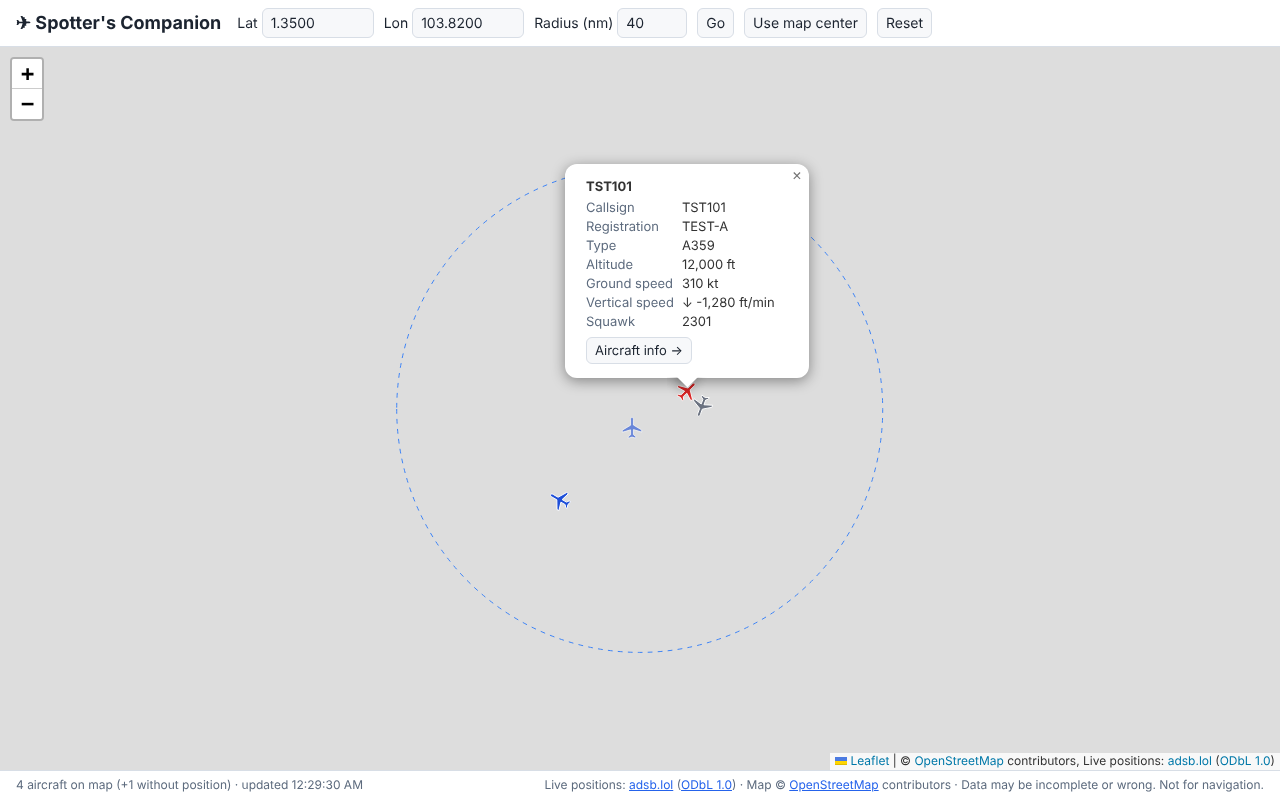
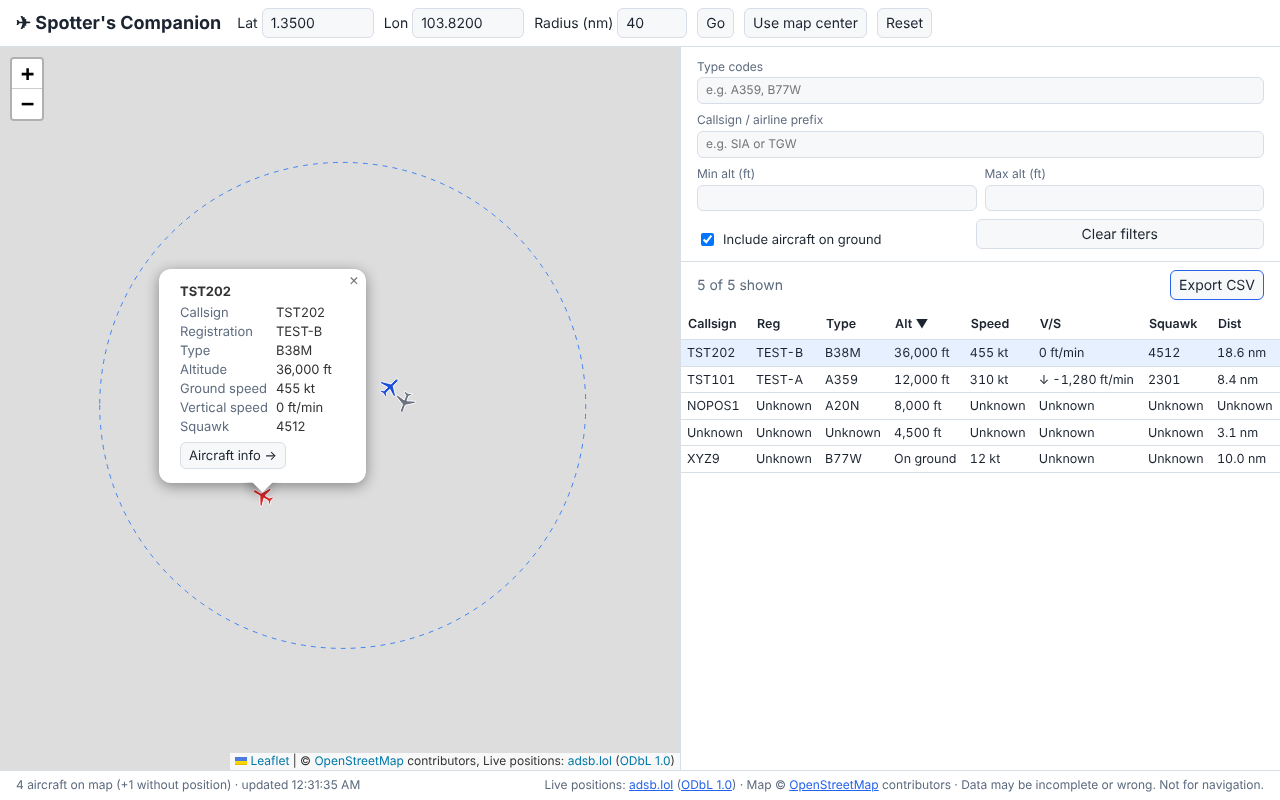
Phase 2: filters, sortable list next to the map, CSV export of current view
Claude-Session: https://claude.ai/code/session_013HS1a15XG4cim1Vt8HA39U

diff --git a/js/list.js b/js/list.js
@@ -1,0 +1,83 @@
+// list.js
+// The sortable table next to the map. It only draws; filtering and sorting logic live in
+// filters.js. Clicking a column header sorts; clicking a row selects that aircraft.
+
+import * as fmt from './format.js';
+import { sortAircraft } from './filters.js';
+
+// Columns: [header text, aircraft field used for sorting, how to display it]
+const COLUMNS = [
+  ['Callsign', 'callsign', (a) => fmt.text(a.callsign)],
+  ['Reg', 'registration', (a) => fmt.text(a.registration)],
+  ['Type', 'typeCode', (a) => fmt.text(a.typeCode)],
+  ['Alt', 'altitudeFt', (a) => fmt.altitude(a)],
+  ['Speed', 'groundSpeedKt', (a) => fmt.speed(a.groundSpeedKt)],
+  ['V/S', 'verticalRateFpm', (a) => fmt.verticalRate(a.verticalRateFpm)],
+  ['Squawk', 'squawk', (a) => fmt.text(a.squawk)],
+  ['Dist', 'distanceNm', (a) => fmt.distance(a.distanceNm)],
+];
+
+const sort = { key: 'distanceNm', direction: 'asc' }; // closest first by default
+let table;
+let onRowClick = () => {};
+let selectedHex = null;
+let lastList = []; // the (filtered) aircraft we were last asked to show
+let shownInOrder = []; // the same aircraft in the order the table shows them
+
+export function initList(tableElement, rowClickHandler) {
+  table = tableElement;
+  onRowClick = rowClickHandler;
+
+  // Header row with clickable column names.
+  const headRow = table.createTHead().insertRow();
+  for (const [label, key] of COLUMNS) {
+    const th = document.createElement('th');
+    const button = document.createElement('button');
+    button.type = 'button';
+    button.textContent = label;
+    button.dataset.key = key;
+    button.addEventListener('click', () => {
+      // Clicking the current column flips the direction; a new column starts ascending.
+      sort.direction = sort.key === key && sort.direction === 'asc' ? 'desc' : 'asc';
+      sort.key = key;
+      renderList(lastList);
+    });
+    th.append(button);
+    headRow.append(th);
+  }
+  table.createTBody();
+}
+
+export function renderList(aircraft) {
+  lastList = aircraft;
+  const sorted = sortAircraft(aircraft, sort.key, sort.direction);
+  shownInOrder = sorted;
+
+  // Show which column is sorted and which way.
+  for (const button of table.tHead.querySelectorAll('button')) {
+    const active = button.dataset.key === sort.key;
+    button.parentElement.setAttribute('aria-sort', active ? (sort.direction === 'asc' ? 'ascending' : 'descending') : 'none');
+  }
+
+  // Rebuild the body. (A few hundred rows at most, so rebuilding is fast enough and simple.)
+  const body = document.createElement('tbody');
+  for (const ac of sorted) {
+    const row = body.insertRow();
+    row.dataset.hex = ac.hex;
+    if (ac.hex === selectedHex) row.classList.add('selected');
+    for (const [, , show] of COLUMNS) row.insertCell().textContent = show(ac); // textContent: safe from HTML in data
+    row.addEventListener('click', () => onRowClick(ac.hex));
+  }
+  table.tBodies[0].replaceWith(body);
+}
+
+// What the table shows right now, in its order. CSV export uses this so the file matches the screen.
+export function getShownInOrder() {
+  return shownInOrder;
+}
+
+export function highlightRow(hex) {
+  selectedHex = hex;
+  for (const row of table.tBodies[0].rows) row.classList.toggle('selected', row.dataset.hex === hex);
+  table.tBodies[0].querySelector('tr.selected')?.scrollIntoView({ block: 'nearest' });
+}

diff --git a/js/main.js b/js/main.js
@@ -1,6 +1,68 @@
 // main.js
 // Entry point loaded by index.html. It wires the modules together and starts the app.
 
-import { start } from './app.js';
+import { start, setRenderer, setSelectHandler, state, updateStatus } from './app.js';
+import { CONFIG } from './config.js';
+import { PROVIDERS } from './api.js';
+import * as mapView from './map.js';
+import { parseFilterInputs, applyFilters } from './filters.js';
+import { initList, renderList, highlightRow, getShownInOrder } from './list.js';
+import { downloadCsv } from './csv.js';
 
+// ---- Phase 2: filters, list and CSV export ----
+const filterForm = document.getElementById('filters');
+const inputs = {
+  types: document.getElementById('filter-types'),
+  prefix: document.getElementById('filter-prefix'),
+  minAlt: document.getElementById('filter-min-alt'),
+  maxAlt: document.getElementById('filter-max-alt'),
+  ground: document.getElementById('filter-ground'),
+};
+const listCount = document.getElementById('list-count');
+const seenTypes = document.getElementById('seen-types');
+
+function currentFilters() {
+  return parseFilterInputs({
+    types: inputs.types.value,
+    prefix: inputs.prefix.value,
+    minAlt: inputs.minAlt.value,
+    maxAlt: inputs.maxAlt.value,
+    includeGround: inputs.ground.checked,
+  });
+}
+
+// Offer the type codes currently in the air as suggestions in the "Type codes" box.
+function updateTypeSuggestions() {
+  const codes = [...new Set(state.aircraft.map((a) => a.typeCode).filter(Boolean))].sort();
+  seenTypes.replaceChildren(...codes.map((c) => Object.assign(document.createElement('option'), { value: c })));
+}
+
+// Runs after every data refresh and every filter change.
+function render() {
+  const visible = applyFilters(state.aircraft, currentFilters());
+  mapView.updateAircraft(visible);
+  renderList(visible);
+  listCount.textContent = `${visible.length} of ${state.aircraft.length} shown`;
+  updateTypeSuggestions();
+  updateStatus();
+}
+
+// Selecting a plane (from the map or the list) highlights it in both places.
+function select(hex, { openPanel = false, fromList = false } = {}) {
+  mapView.selectAircraft(hex, { pan: fromList, openPopup: fromList });
+  highlightRow(hex);
+}
+
+filterForm.addEventListener('input', render);
+// "reset" fires before the boxes are cleared, so wait one tick before re-rendering.
+filterForm.addEventListener('reset', () => setTimeout(render));
+filterForm.addEventListener('submit', (e) => e.preventDefault());
+
+document.getElementById('export-csv').addEventListener('click', () => {
+  downloadCsv(getShownInOrder(), PROVIDERS[CONFIG.provider].csvCredit);
+});
+
+initList(document.getElementById('aircraft-list'), (hex) => select(hex, { fromList: true }));
+setRenderer(render);
+setSelectHandler(select);
 start();

diff --git a/css/style.css b/css/style.css
@@ -111,3 +111,47 @@ button:hover { border-color: var(--accent); }
   color: var(--muted);
   font-size: 12px;
 }
+
+/* ---- Sidebar: filters + list (Phase 2) ---- */
+.sidebar {
+  width: 600px;
+  display: flex;
+  flex-direction: column;
+  background: var(--panel);
+  border-left: 1px solid var(--border);
+  min-height: 0;
+}
+.filters { display: grid; gap: 8px; padding: 12px 16px; border-bottom: 1px solid var(--border); }
+.filters label { display: grid; gap: 2px; color: var(--muted); font-size: 12px; }
+.filters input { width: 100%; }
+.filters__row { display: flex; gap: 8px; align-items: end; }
+.filters__row > * { flex: 1; }
+.filters .check { display: flex; align-items: center; gap: 6px; font-size: 13px; color: var(--text); }
+.filters .check input { width: auto; }
+
+.list-toolbar {
+  display: flex;
+  justify-content: space-between;
+  align-items: center;
+  padding: 8px 16px;
+  color: var(--muted);
+}
+.list-wrap { flex: 1; overflow: auto; min-height: 0; }
+
+.aircraft-list { width: 100%; border-collapse: collapse; font-size: 12.5px; font-variant-numeric: tabular-nums; }
+.aircraft-list th { position: sticky; top: 0; background: var(--panel); border-bottom: 1px solid var(--border); text-align: left; }
+.aircraft-list th button { border: none; background: none; padding: 6px 6px; font-weight: 600; width: 100%; text-align: left; }
+.aircraft-list th[aria-sort="ascending"] button::after { content: " ▲"; }
+.aircraft-list th[aria-sort="descending"] button::after { content: " ▼"; }
+.aircraft-list td { padding: 4px 6px; border-bottom: 1px solid var(--border); white-space: nowrap; }
+.aircraft-list tbody tr { cursor: pointer; }
+.aircraft-list tbody tr:hover { background: var(--bg); }
+.aircraft-list tbody tr.selected { background: var(--info-bg); }
+
+/* Phones and narrow windows: map on top, list underneath. */
+@media (max-width: 900px) {
+  .layout { flex-direction: column; }
+  .map { flex: none; height: 55vh; }
+  .sidebar { width: 100%; border-left: none; border-top: 1px solid var(--border); }
+  .list-wrap { max-height: 60vh; }
+}

diff --git a/index.html b/index.html
@@ -28,6 +28,35 @@
 
   <main class="layout">
     <div id="map" class="map" aria-label="Map of nearby aircraft"></div>
+
+    <aside class="sidebar">
+      <!-- Filters apply to both the map and the list -->
+      <form id="filters" class="filters" autocomplete="off">
+        <label>Type codes
+          <input id="filter-types" list="seen-types" placeholder="e.g. A359, B77W">
+          <datalist id="seen-types"></datalist>
+        </label>
+        <label>Callsign / airline prefix
+          <input id="filter-prefix" placeholder="e.g. SIA or TGW">
+        </label>
+        <div class="filters__row">
+          <label>Min alt (ft) <input id="filter-min-alt" type="number" step="500" min="0"></label>
+          <label>Max alt (ft) <input id="filter-max-alt" type="number" step="500" min="0"></label>
+        </div>
+        <div class="filters__row">
+          <label class="check"><input id="filter-ground" type="checkbox" checked> Include aircraft on ground</label>
+          <button type="reset">Clear filters</button>
+        </div>
+      </form>
+
+      <div class="list-toolbar">
+        <span id="list-count">0 shown</span>
+        <button type="button" id="export-csv">Export CSV</button>
+      </div>
+      <div class="list-wrap">
+        <table id="aircraft-list" class="aircraft-list"></table>
+      </div>
+    </aside>
   </main>
 
   <footer class="footer">

diff --git a/js/api.js b/js/api.js
@@ -19,6 +19,7 @@ import { CONFIG } from './config.js';
 export const PROVIDERS = {
   adsbLol: {
     name: 'adsb.lol',
+    csvCredit: 'adsb.lol (ODbL 1.0)', // added as a "source" column to exported CSV files
     attributionHtml:
       'Live positions: <a href="https://adsb.lol" target="_blank" rel="noopener">adsb.lol</a> ' +
       '(<a href="https://opendatacommons.org/licenses/odbl/1-0/" target="_blank" rel="noopener">ODbL 1.0</a>)',
@@ -29,6 +30,7 @@ export const PROVIDERS = {
   // doesn't have the shape above, the app shows a "format" error instead of guessing.
   airplanesLive: {
     name: 'airplanes.live',
+    csvCredit: 'airplanes.live (non-commercial use)',
     attributionHtml:
       'Live positions: <a href="https://airplanes.live" target="_blank" rel="noopener">airplanes.live</a> ' +
       '(non-commercial use)',
